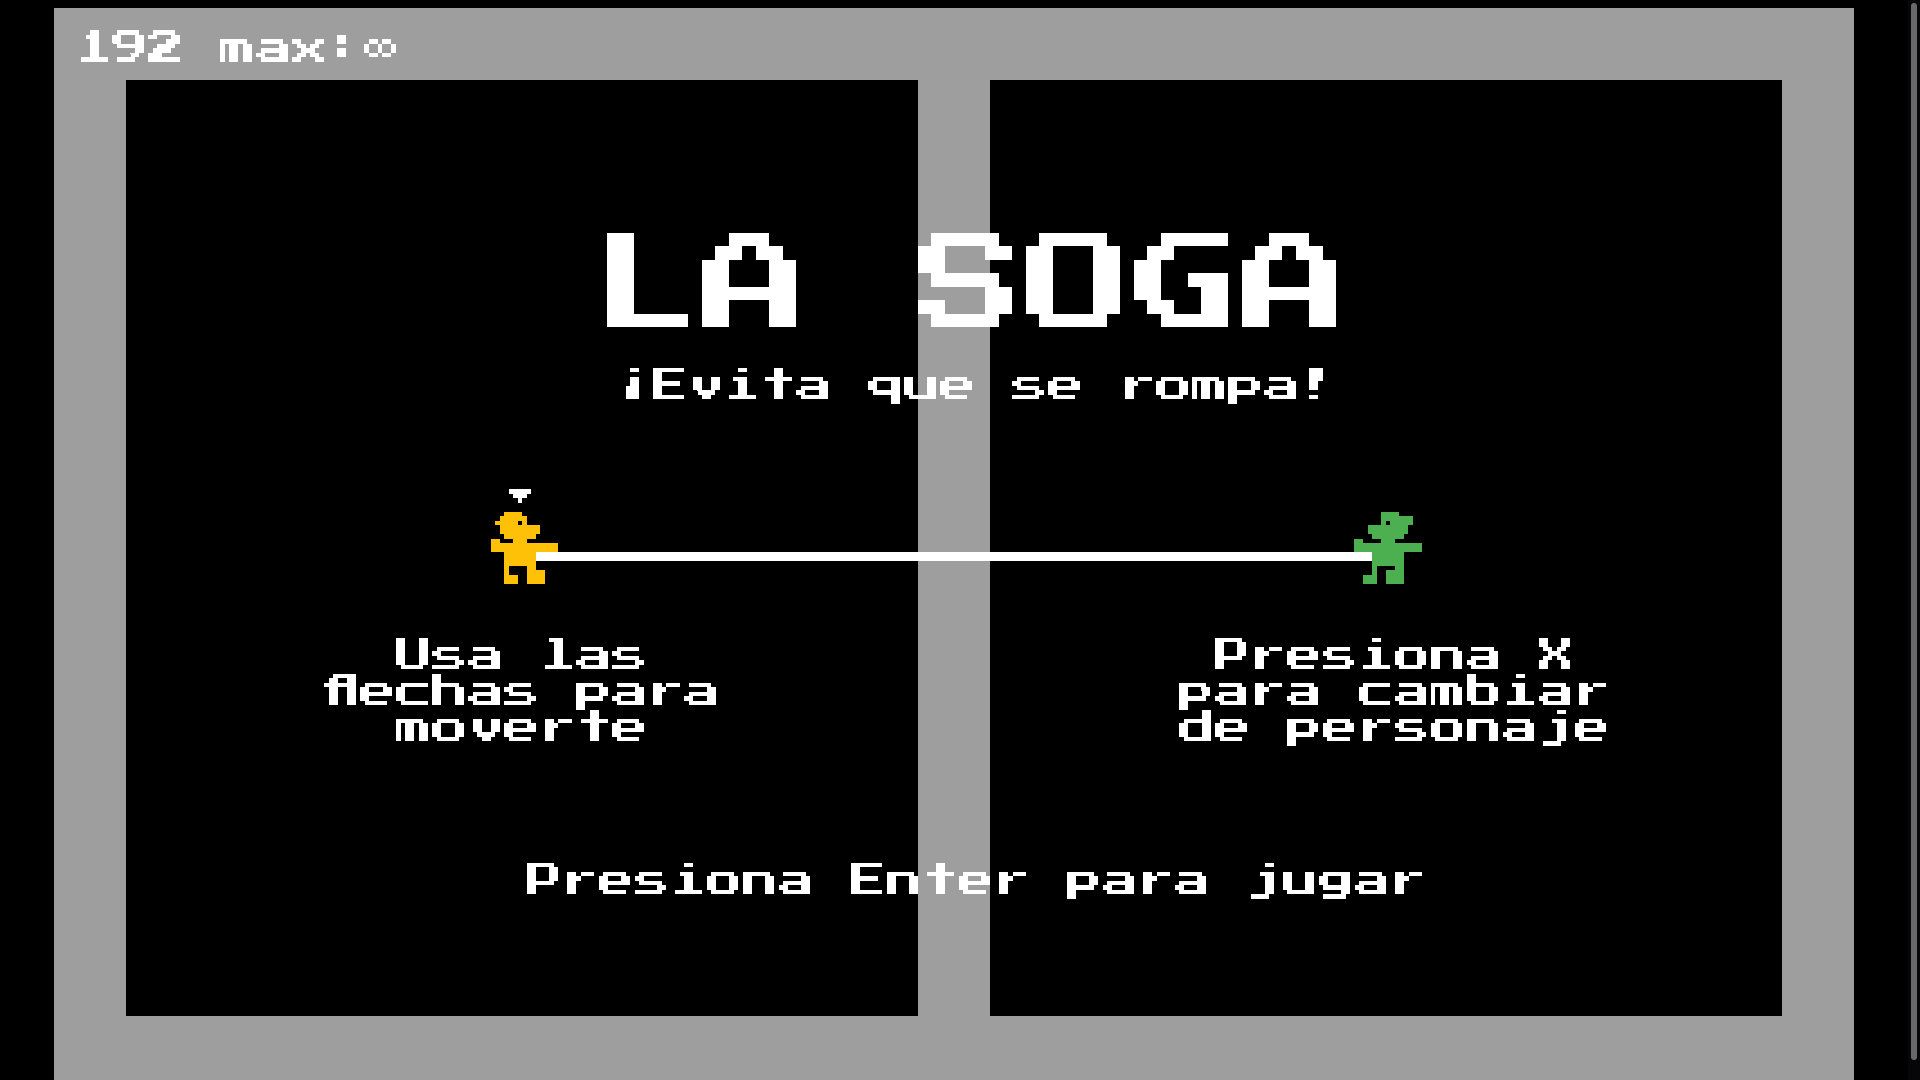
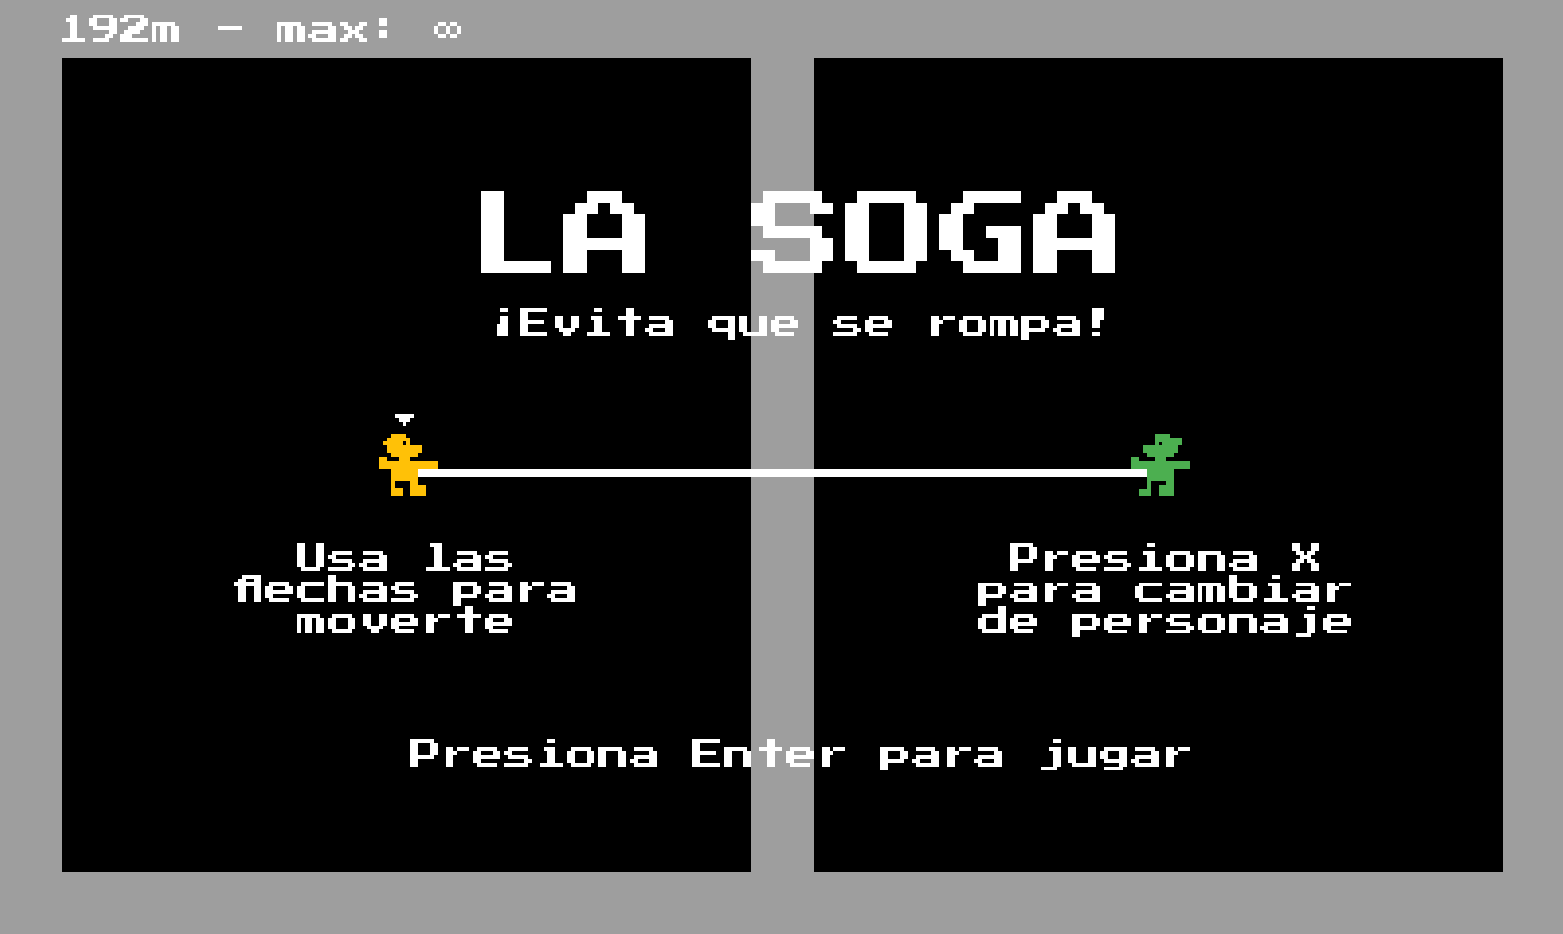
finaaaaaaal (?)
Former-commit-id: 5ad9d1ba41479d83012e8e80b0b0805974ab8404

Changed region(s): [[0.0, 0.0, 1.0, 1.0], [0.6142, 0.5589, 0.8599, 0.7141], [0.1536, 0.5899, 0.3685, 0.6831]]

diff --git a/scripts/level.js b/scripts/level.js
@@ -5,21 +5,21 @@ class Level extends Phaser.Scene {
 
     preload() {
         this.map_id = 'map' + (level+1).toString();
-        this.load.image('tiles', '/assets/wall.png');
-        this.load.tilemapTiledJSON(this.map_id, '/assets/level' + (level+1).toString() +'.json');
-        this.load.spritesheet('player1', '/assets/player1.png', {frameWidth: 16, frameHeight: 21});
-        this.load.spritesheet('player2', '/assets/player2.png', {frameWidth: 16, frameHeight: 21});
-        this.load.spritesheet('player1_set', '/assets/player1_set.png', {frameWidth: 16, frameHeight: 21});
-        this.load.spritesheet('player2_set', '/assets/player2_set.png', {frameWidth: 16, frameHeight: 21});
-        this.load.spritesheet('teleport', '/assets/teleport.png', {frameWidth: 16});
-        this.load.spritesheet('button', '/assets/button.png', {frameWidth: 16});
-        this.load.spritesheet('helix', '/assets/helix.png', {frameWidth: 16});
-        this.load.image('rope', '/assets/rope.png');
-        this.load.audio('snd_button', ['/assets/button.ogg']);
-        this.load.audio('snd_rope', ['/assets/rope.ogg']);
-        this.load.audio('snd_teleport', ['/assets/teleport.ogg']);
-        this.load.audio('snd_hit', ['/assets/hit.ogg']);
-        this.load.audio('snd_pass', ['/assets/pass.ogg']);
+        this.load.image('tiles', 'assets/wall.png');
+        this.load.tilemapTiledJSON(this.map_id, 'assets/level' + (level+1).toString() +'.json');
+        this.load.spritesheet('player1', 'assets/player1.png', {frameWidth: 16, frameHeight: 21});
+        this.load.spritesheet('player2', 'assets/player2.png', {frameWidth: 16, frameHeight: 21});
+        this.load.spritesheet('player1_set', 'assets/player1_set.png', {frameWidth: 16, frameHeight: 21});
+        this.load.spritesheet('player2_set', 'assets/player2_set.png', {frameWidth: 16, frameHeight: 21});
+        this.load.spritesheet('teleport', 'assets/teleport.png', {frameWidth: 16});
+        this.load.spritesheet('button', 'assets/button.png', {frameWidth: 16});
+        this.load.spritesheet('helix', 'assets/helix.png', {frameWidth: 16});
+        this.load.image('rope', 'assets/rope.png');
+        this.load.audio('snd_button', ['assets/button.ogg']);
+        this.load.audio('snd_rope', ['assets/rope.ogg']);
+        this.load.audio('snd_teleport', ['assets/teleport.ogg']);
+        this.load.audio('snd_hit', ['assets/hit.ogg']);
+        this.load.audio('snd_pass', ['assets/pass.ogg']);
     }
 
     create() {
@@ -233,7 +233,7 @@ class Level extends Phaser.Scene {
         this.line.setTo(this.player1.body.x + 8, this.player1.body.y + 10,
             this.player2.body.x + 8, this.player2.body.y + 10);
         let d = this.distance();
-        this.text.setText(Math.round(d).toString() + ' max:' + (rope + diff_rope).toString());
+        this.text.setText(Math.round(d).toString() + 'm - max: ' + (rope + diff_rope).toString() + 'm');
         if (d > rope + diff_rope) {
             if (this.b_add)
                 rope -= add_rope;

diff --git a/scripts/menu.js b/scripts/menu.js
@@ -4,13 +4,13 @@ class Menu extends Phaser.Scene {
     }
 
     preload() {
-        this.load.image('tiles', '/assets/wall.png');
-        this.load.tilemapTiledJSON('map', '/assets/menu.json');
-        this.load.spritesheet('player1', '/assets/player1.png', {frameWidth: 16, frameHeight: 21});
-        this.load.spritesheet('player2', '/assets/player2.png', {frameWidth: 16, frameHeight: 21});
-        this.load.spritesheet('player1_set', '/assets/player1_set.png', {frameWidth: 16, frameHeight: 21});
-        this.load.spritesheet('player2_set', '/assets/player2_set.png', {frameWidth: 16, frameHeight: 21});
-        this.load.audio('snd_background', ['/assets/background.ogg']);
+        this.load.image('tiles', 'assets/wall.png');
+        this.load.tilemapTiledJSON('map', 'assets/menu.json');
+        this.load.spritesheet('player1', 'assets/player1.png', {frameWidth: 16, frameHeight: 21});
+        this.load.spritesheet('player2', 'assets/player2.png', {frameWidth: 16, frameHeight: 21});
+        this.load.spritesheet('player1_set', 'assets/player1_set.png', {frameWidth: 16, frameHeight: 21});
+        this.load.spritesheet('player2_set', 'assets/player2_set.png', {frameWidth: 16, frameHeight: 21});
+        this.load.audio('snd_background', ['assets/background.ogg']);
     }
 
     create() {
@@ -63,7 +63,7 @@ class Menu extends Phaser.Scene {
         this.key = this.input.keyboard.addKey(Phaser.Input.Keyboard.KeyCodes.X);
         this.continue = this.input.keyboard.addKey(Phaser.Input.Keyboard.KeyCodes.ENTER);
         this.vel = 40;
-        this.text = this.add.text(5, 5, '', {fontFamily: 'pixel', fontSize: 8});
+        this.text = this.add.text(15, 5, '', {fontFamily: 'pixel', fontSize: 8});
         this.add.text(120, 50, 'LA SOGA', {fontFamily: 'pixel', fontSize: 24});
         this.add.text(125, 80, '¡Evita que se rompa!', {fontFamily: 'pixel', fontSize: 8});
         this.add.text(60, 140, 'Usa las\nflechas para\nmoverte',
@@ -114,6 +114,6 @@ class Menu extends Phaser.Scene {
         }
         this.line.setTo(this.player1.body.x + 8, this.player1.body.y + 10,
             this.player2.body.x + 8, this.player2.body.y + 10);
-        this.text.setText(Math.round(this.distance()).toString() + ' max:∞');
+        this.text.setText(Math.round(this.distance()).toString() + 'm - max: ∞');
     }
 }

diff --git a/home.html b/home.html
@@ -4,7 +4,7 @@
   <meta charset="UTF-8">
   <meta http-equiv="X-UA-Compatible" content="IE=edge">
   <meta name="viewport" content="width=device-width, initial-scale=1.0">
-  <link rel="icon" href="/favicon.ico" type="image/x-icon">
+  <link rel="icon" href="favicon.ico" type="image/x-icon">
   <title>La Soga</title>
   <style>
     body {
@@ -13,13 +13,13 @@
   </style>
 </head>
 <body>
-  <script src="/scripts/phaser.min.js"></script>
-  <script src="/scripts/config.js"></script>
-  <script src="/scripts/intersection.js"></script>
-  <script src="/scripts/menu.js"></script>
-  <script src="/scripts/level.js"></script>
-  <script src="/scripts/loading.js"></script>
-  <script src="/scripts/win.js"></script>
-  <script src="/scripts/main.js"></script>
+  <script src="scripts/phaser.min.js"></script>
+  <script src="scripts/config.js"></script>
+  <script src="scripts/intersection.js"></script>
+  <script src="scripts/menu.js"></script>
+  <script src="scripts/level.js"></script>
+  <script src="scripts/loading.js"></script>
+  <script src="scripts/win.js"></script>
+  <script src="scripts/main.js"></script>
 </body>
 </html>

diff --git a/scripts/loading.js b/scripts/loading.js
@@ -4,11 +4,11 @@ class Loading extends Phaser.Scene {
     }
 
     preload() {
-        this.load.spritesheet('teleport', '/assets/teleport.png', {frameWidth: 16});
-        this.load.spritesheet('button', '/assets/button.png', {frameWidth: 16});
-        this.load.spritesheet('helix', '/assets/helix.png', {frameWidth: 16});
-        this.load.image('rope', '/assets/rope.png');
-        this.load.spritesheet('loading', '/assets/loading.png', {frameWidth: 70, frameHeight: 15});
+        this.load.spritesheet('teleport', 'assets/teleport.png', {frameWidth: 16});
+        this.load.spritesheet('button', 'assets/button.png', {frameWidth: 16});
+        this.load.spritesheet('helix', 'assets/helix.png', {frameWidth: 16});
+        this.load.image('rope', 'assets/rope.png');
+        this.load.spritesheet('loading', 'assets/loading.png', {frameWidth: 70, frameHeight: 15});
     }
 
     create() {

diff --git a/scripts/config.js b/scripts/config.js
@@ -4,7 +4,7 @@ function loadFont(name, url) {
         .then((loaded) => document.fonts.add(loaded))
         .catch((error) => error);
 }
-loadFont('pixel', '/assets/pixel.ttf');
+loadFont('pixel', 'assets/pixel.ttf');
 let rope = 200;
 const diff_rope = 30;
 let add_rope = 20;

diff --git a/scripts/win.js b/scripts/win.js
@@ -4,7 +4,7 @@ class Win extends Phaser.Scene {
     }
 
     preload() {
-        this.load.audio('snd_win', ['/assets/win.ogg']);
+        this.load.audio('snd_win', ['assets/win.ogg']);
     }
 
     create() {

diff --git a/README.md b/README.md
@@ -2,4 +2,11 @@
 
 Juego de puzzles hecho en javascript y [Phaser 3](https://phaser.io) para [Tu juego a juicio Jam 2021](https://itch.io/jam/tu-juego-a-juicio-jam-2021).
 
-![Captura de Pantalla](assets/screenshot.png)
+- **Heroku demo:** <https://la-soga.herokuapp.com/>
+- **Página de itch.io:** <https://joaquin30.itch.io/la-soga>
+
+![Captura de Pantalla 1](art/screenshot1.png)
+
+![Captura de Pantalla 2](art/screenshot2.png)
+
+![Captura de Pantalla 3](art/screenshot3.png)
